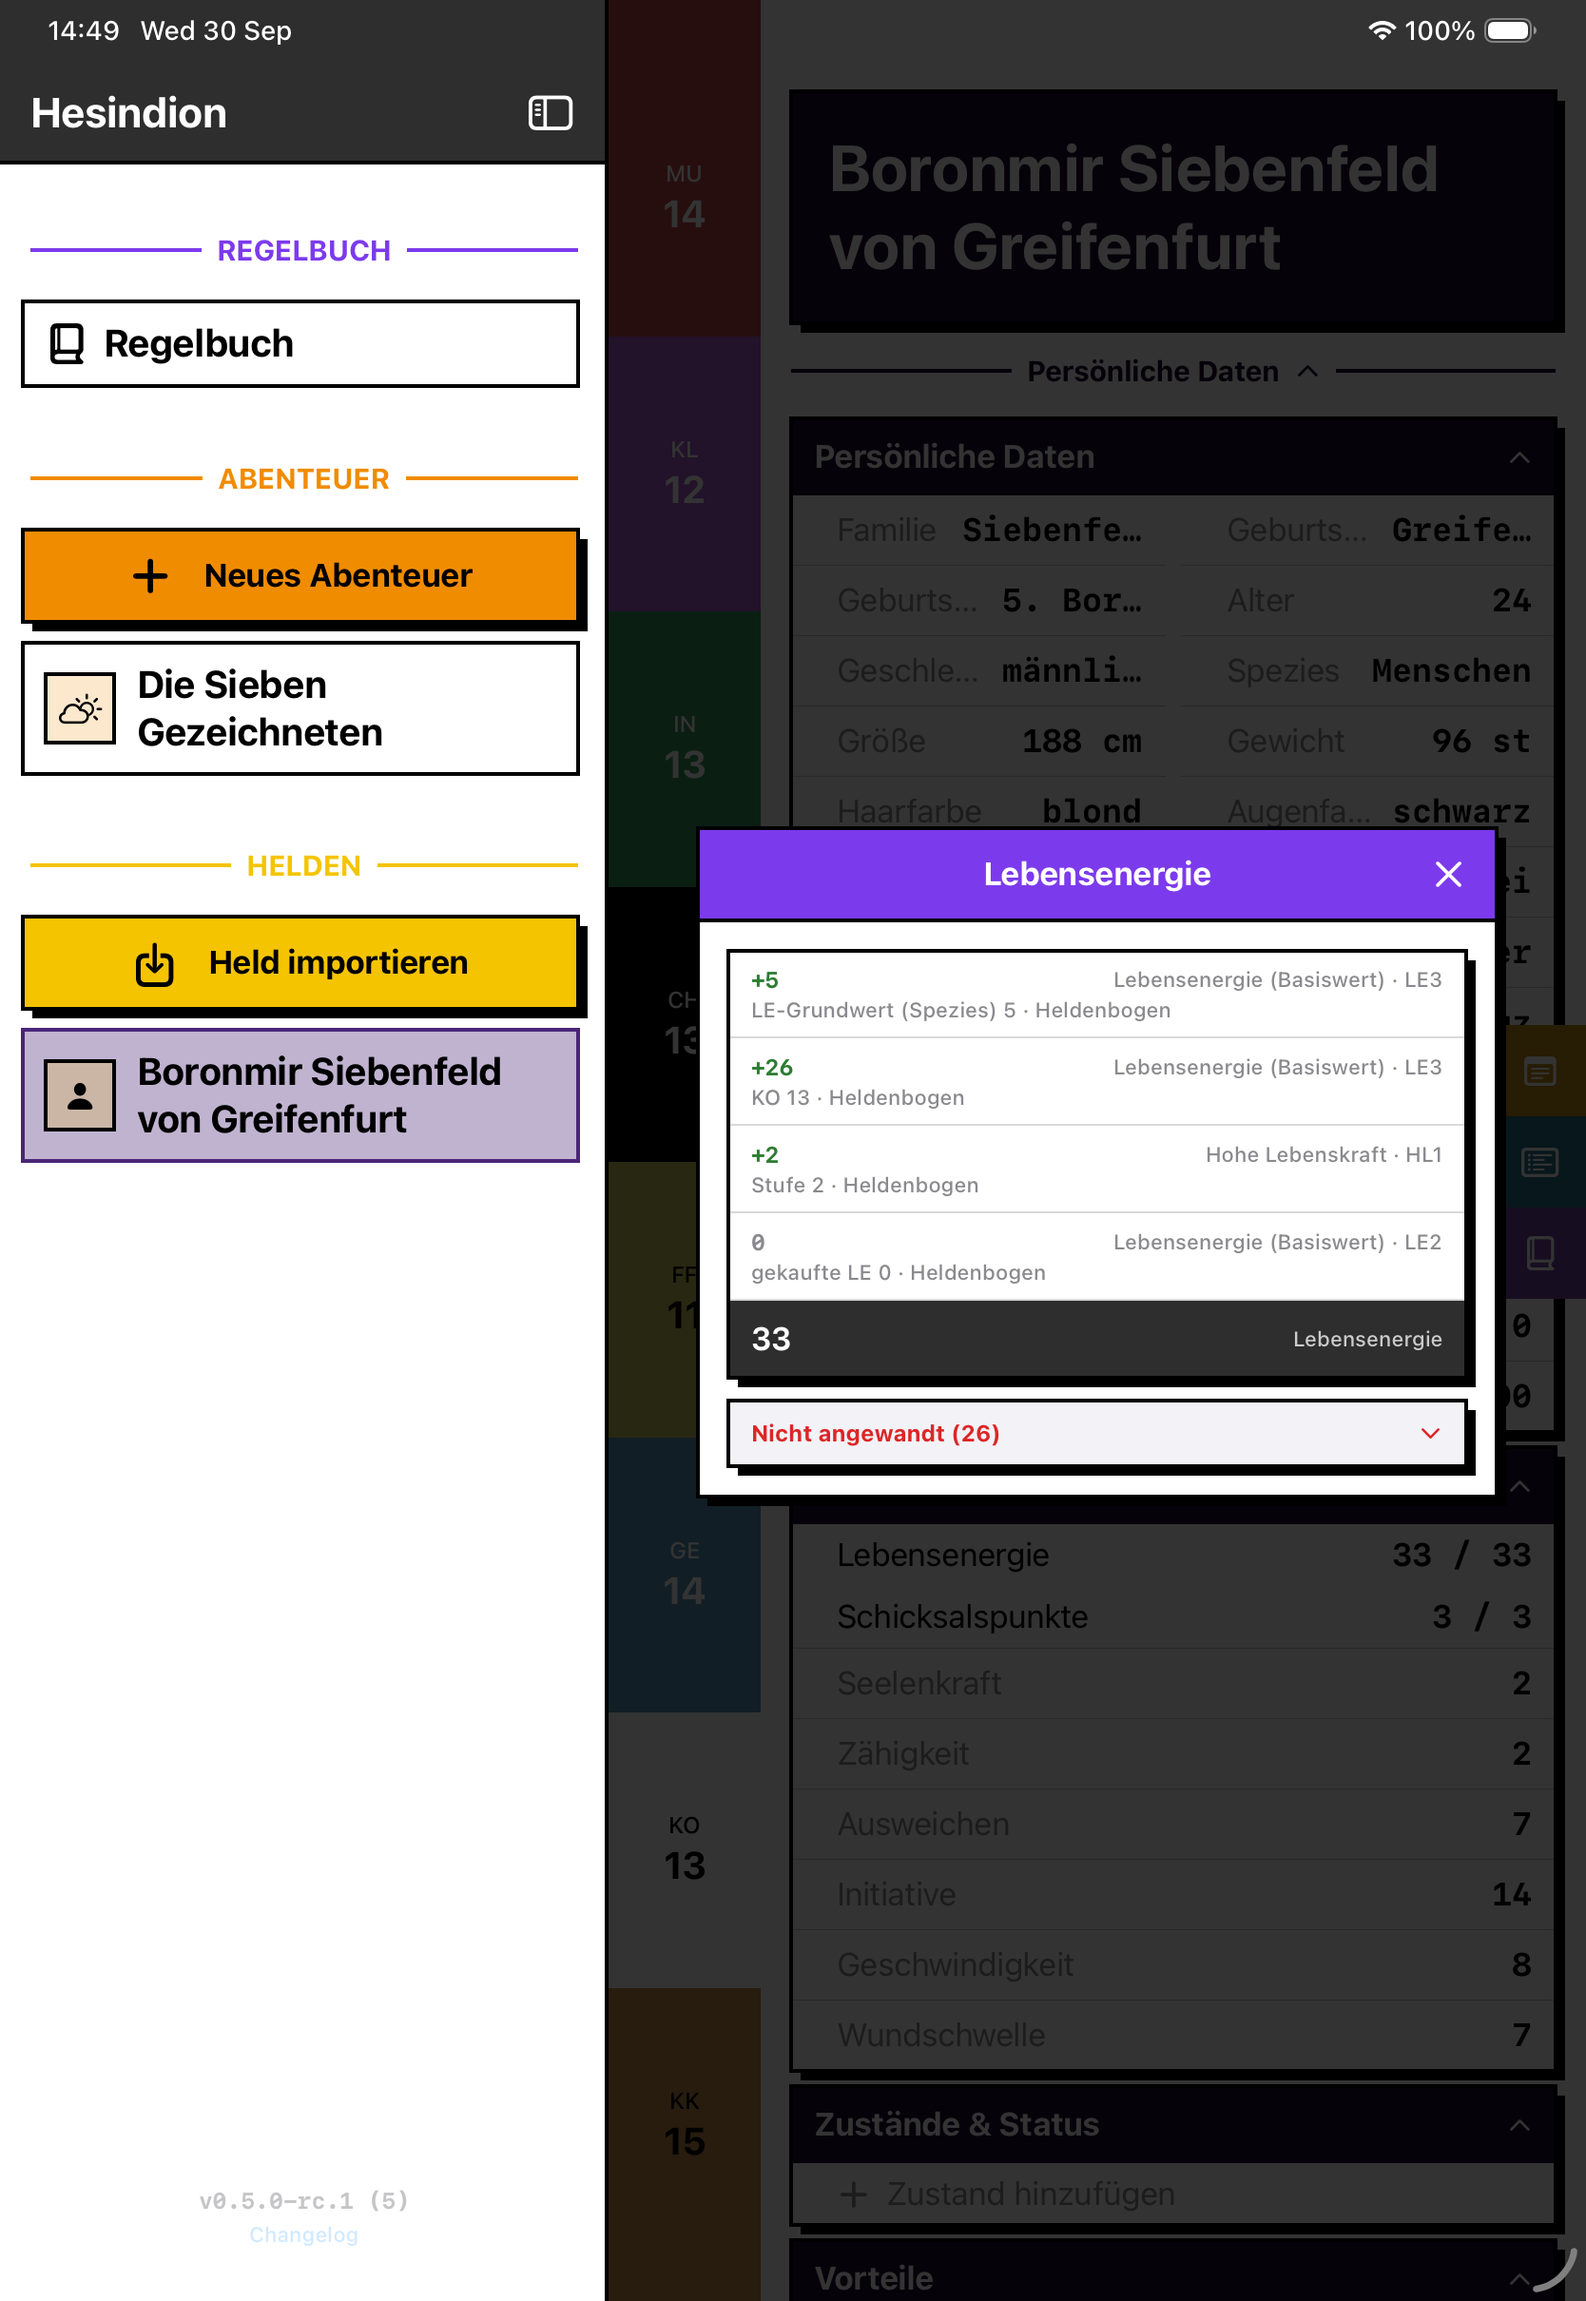
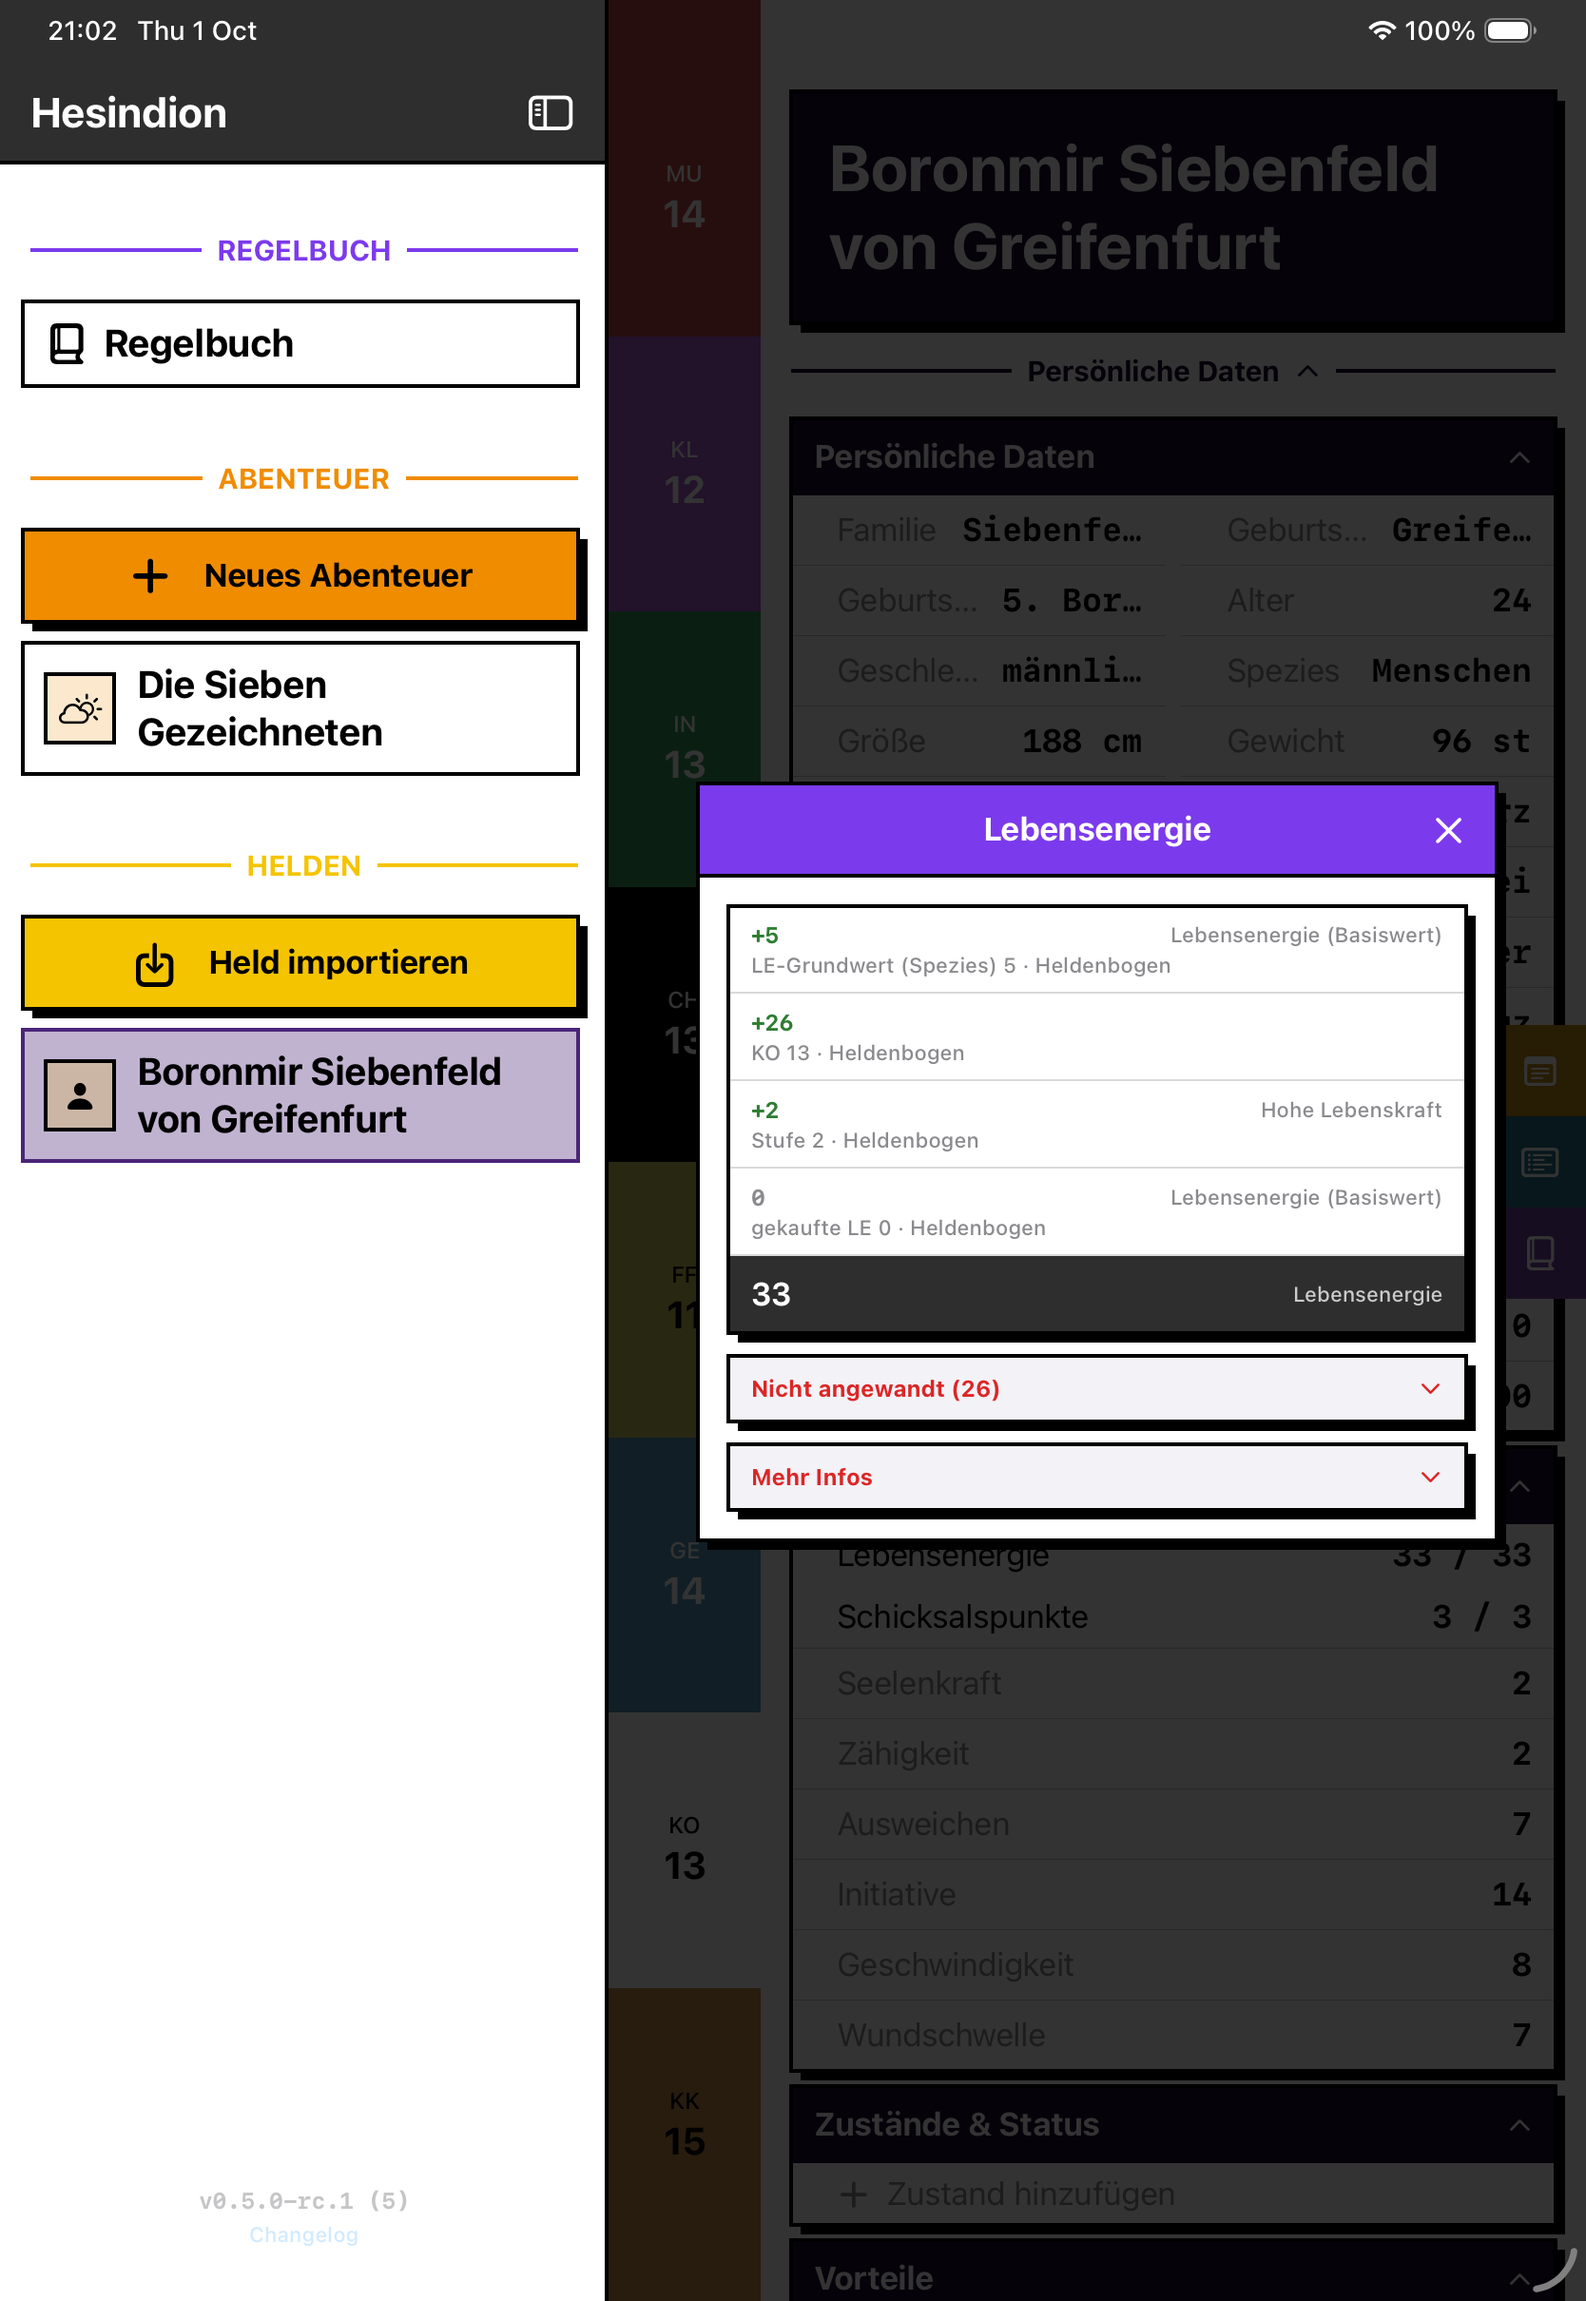
ui: a breakdown row names its rule once; clause and ruling ids under Mehr Infos (#51)
Claude-Session: https://claude.ai/code/session_01XqN782arHHEks4nWYuMR9X

Changed region(s): [[0.4365, 0.3409, 0.9664, 0.6818], [0.0935, 0.0, 0.1871, 0.031], [0.0312, 0.0, 0.0624, 0.031]]

diff --git a/Hesindion/Views/BreakdownText.swift b/Hesindion/Views/BreakdownText.swift
@@ -9,10 +9,13 @@ enum BreakdownText {
     /// Facts a line reads only to gate a rule (`subject: creature`), which say nothing to a player.
     private static let hiddenFacts: Set<String> = ["subject"]
 
-    /// One detail per shown line, in `shownLines` order (nil: the row has none).
+    /// One detail per shown line, in `shownLines` order (nil: the row has none). A fact or an
+    /// Auslegung mark the line above already showed is not repeated.
     static func details(for breakdown: Breakdown, book: RuleBook, openRuling: String?) -> [String?] {
         let isLevel = breakdown.query.name == "level"
         var step = 0
+        var shownFacts: [FactUse] = []
+        var shownRuling: String?
         return breakdown.shownLines.map { line in
             var parts: [String] = []
             if let threshold = line.threshold {
@@ -25,17 +28,48 @@ enum BreakdownText {
             if line.kind == .levelAs, let was = line.was, let now = line.now {
                 parts.append(String(format: L("breakdown.levelAs"), stufe(was), stufe(now)))
             } else {
-                parts += facts(of: line).map { fact in
+                let new = facts(of: line).filter { !shownFacts.contains($0) }
+                shownFacts = facts(of: line)
+                parts += new.map { fact in
                     let label = "\(FactLabel.label(fact.name, book: book)) \(display(fact.value))"
                     return fact.owner == .derived ? label : "\(label) · \(L("owner.\(fact.owner.rawValue)"))"
                 }
             }
-            if let ruling = line.ruling {
+            defer { shownRuling = line.ruling }
+            if let ruling = line.ruling, ruling != shownRuling {
                 let answer = openRuling == ruling ? (book.rulingAnswer(ruling) ?? ruling) : nil
                 parts.append(answer.map { String(format: L("breakdown.auslegung.open"), $0) } ?? L("breakdown.auslegung"))
             }
             return parts.isEmpty ? nil : parts.joined(separator: " · ")
         }
+    }
+
+    /// One source per shown line: the rule's name (or, for a value no rule gave, who stated it),
+    /// "" when the line above has the same one. The clause ids are in `references`.
+    static func sources(for breakdown: Breakdown, book: RuleBook) -> [String] {
+        var previous: String?
+        return breakdown.shownLines.map { line in
+            let name = line.origin.map { ruleName($0.rule, book) } ?? L("owner.\((line.owner ?? .sheet).rawValue)")
+            defer { previous = name }
+            return name == previous ? "" : name
+        }
+    }
+
+    /// "Mehr Infos": every clause the lines come from and rest on (`Rule · clause`), then every
+    /// ruling they rest on, each once, in line order (design §5: each line's origin stays shown).
+    static func references(for breakdown: Breakdown, book: RuleBook) -> [String] {
+        var clauses: [String] = [], rulings: [String] = []
+        for line in breakdown.shownLines {
+            for ref in (line.origin.map { [$0] } ?? []) + line.via {
+                let text = "\(ruleName(ref.rule, book)) · \(ref.clause)"
+                if !clauses.contains(text) { clauses.append(text) }
+            }
+            for id in line.rulings {
+                let text = String(format: L("breakdown.reference.ruling"), id)
+                if !rulings.contains(text) { rulings.append(text) }
+            }
+        }
+        return clauses + rulings
     }
 
     /// The result bar's value: for `level(rule:)` the Stufe acted at, and the Stufe had when a
@@ -48,6 +82,8 @@ enum BreakdownText {
         }
         return String(format: L("breakdown.level.total"), stufe(result))
     }
+
+    private static func ruleName(_ id: String, _ book: RuleBook) -> String { book.rules[id]?.name ?? id }
 
     private static func facts(of line: Line) -> [FactUse] {
         line.facts.filter { !hiddenFacts.contains($0.name) }

diff --git a/Hesindion/Views/BreakdownSheet.swift b/Hesindion/Views/BreakdownSheet.swift
@@ -21,6 +21,8 @@ struct BreakdownSheet: View {
     /// survives `DSAModal` remounting it under a different parent once the content grows past
     /// the scroll cap (see `CombatDisclosureSection.expandedOverride`).
     @State private var notAppliedExpanded = false
+    /// The "Mehr Infos" fold's state, held here for the same reason.
+    @State private var moreInfoExpanded = false
 
     var body: some View {
         DSAModal(
@@ -44,16 +46,19 @@ struct BreakdownSheet: View {
                 totalIdentifier: "breakdown.result"
             )
             notAppliedSection
+            moreInfoSection
         }
     }
 
     /// One `BreakdownRow` per shown line, in order: the value signed (the base parts too), the
-    /// source `Rule name · clause`, and as the row's `detail` what `BreakdownText` says of it — a
-    /// threshold, the facts it read, its Auslegung mark (tappable to expand the ruling's answer).
+    /// rule's name once per run of its lines, and as the row's `detail` what `BreakdownText` says
+    /// of it — a threshold, the facts it read, its Auslegung mark (tappable to expand the ruling's
+    /// answer). Clause and ruling ids are under "Mehr Infos".
     private var rows: [BreakdownRow] {
         let details = BreakdownText.details(for: value.breakdown, book: book, openRuling: openRuling)
+        let sources = BreakdownText.sources(for: value.breakdown, book: book)
         return value.breakdown.shownLines.enumerated().map { i, line in
-            var row = BreakdownRow.signed(line.value, origin(line))
+            var row = BreakdownRow.signed(line.value, sources[i])
             row.detail = details[i]
             row.identifierOverride = "breakdown.line.\(i)"
             if let ruling = line.ruling {
@@ -63,15 +68,32 @@ struct BreakdownSheet: View {
         }
     }
 
-    /// A line's origin, its clause id, and the rules it rests `via` (a useLevel, a replace); a
-    /// value the sheet or the player stated instead names its `owner` (design §5).
-    private func origin(_ line: Line) -> String {
-        guard let o = line.origin else { return L("owner.\((line.owner ?? .sheet).rawValue)") }
-        let via = line.via.map { ruleName($0.rule) }
-        return "\(ruleName(o.rule)) · \(o.clause)" + (via.isEmpty ? "" : " (\(via.joined(separator: ", ")))")
-    }
-
     private func ruleName(_ id: String) -> String { book.rules[id]?.name ?? id }
+
+    /// The folded "Mehr Infos" list: the clause and ruling ids the lines rest on (issue #51), kept
+    /// out of the rows so that a row does not repeat them.
+    @ViewBuilder
+    private var moreInfoSection: some View {
+        let references = BreakdownText.references(for: value.breakdown, book: book)
+        if !references.isEmpty {
+            CombatDisclosureSection(
+                title: L("breakdown.moreInfo"),
+                identifier: "breakdown.moreInfo",
+                expandedOverride: $moreInfoExpanded
+            ) {
+                VStack(spacing: 0) {
+                    ForEach(references, id: \.self) { reference in
+                        Text(reference)
+                            .font(.dsaBody(.caption))
+                            .frame(maxWidth: .infinity, alignment: .leading)
+                            .padding(.horizontal, 12)
+                            .padding(.vertical, 8)
+                            .dsaRowDivider()
+                    }
+                }
+            }
+        }
+    }
 
     /// The folded "Nicht angewandt (n)" list, in the app's own disclosure styling (shut by
     /// default, like the announcement's opponent section) rather than a system `DisclosureGroup`.

diff --git a/HesindionUITests/SheetBreakdownTests.swift b/HesindionUITests/SheetBreakdownTests.swift
@@ -63,13 +63,16 @@ final class SheetBreakdownTests: XCTestCase {
         let panel = app.otherElements["modal.panel"]
         XCTAssertTrue(panel.waitForExistence(timeout: UITest.timeout), "The modal panel has no identifier")
 
-        // Hug: the collapsed fold is the content's last row; below it only the content's
-        // own 16pt padding (and the box's border) may remain, not the rest of the cap.
-        let gap = panel.frame.maxY - toggle.frame.maxY
+        // Hug: the collapsed "Mehr Infos" fold, under "Nicht angewandt", is the content's last
+        // row; below it only the content's own 16pt padding (and the box's border) may remain,
+        // not the rest of the cap.
+        let last = app.buttons["breakdown.moreInfo.toggle"]
+        XCTAssertTrue(last.exists, "The Mehr-Infos fold is missing")
+        let gap = panel.frame.maxY - last.frame.maxY
         XCTAssertLessThanOrEqual(
             gap, 40,
             "The panel does not hug its content: its bottom is \(gap)pt below the last row "
-                + "(panel \(panel.frame), fold \(toggle.frame))"
+                + "(panel \(panel.frame), fold \(last.frame))"
         )
 
         toggle.tap()
@@ -161,6 +164,7 @@ final class SheetBreakdownTests: XCTestCase {
         XCTAssertTrue(app.staticTexts["Schmerz Kupperus"].exists, "The breakdown is not the mount's Schmerz")
         XCTAssertTrue(app.staticTexts["breakdown.intro"].exists, "Nothing says how the thresholds count")
         XCTAssertEqual(app.staticTexts["breakdown.result"].label, "Stufe II", "The result is not the Stufe")
+        XCTAssertTrue(app.buttons["breakdown.moreInfo.toggle"].exists, "The clause ids have no Mehr-Infos fold")
         XCTAssertTrue(
             app.descendants(matching: .any)["breakdown.line.0"].exists,
             "The breakdown has no lines"

diff --git a/HesindionTests/BreakdownTextTests.swift b/HesindionTests/BreakdownTextTests.swift
@@ -51,6 +51,33 @@ final class BreakdownTextTests: XCTestCase {
         XCTAssertFalse(first.contains(L("owner.derived")), first)
     }
 
+    /// Only the first threshold shows the LeP read and the Auslegung mark; the rows below
+    /// repeat neither.
+    func testALineRepeatsNoFactAndNoMarkOfTheLineAbove() throws {
+        let d = details(try schmerz(le: 60))
+        for line in d[1...3] {
+            XCTAssertFalse(line!.contains("LeP 60"), line!)
+            XCTAssertFalse(line!.contains(L("breakdown.auslegung")), line!)
+        }
+    }
+
+    /// The rule name shows once per run of lines from the same rule, without the clause id.
+    func testTheSourceIsTheRuleNameOncePerRun() throws {
+        let sources = BreakdownText.sources(for: try schmerz(le: 60), book: book)
+        let breed = book.rules["svellttaler-kaltblut"]!.name, tough = book.rules["zaehes-tier"]!.name
+        XCTAssertEqual(sources, [breed, "", "", "", tough])
+    }
+
+    /// "Mehr Infos": each clause, rule and ruling id once.
+    func testTheReferencesListEachClauseAndRulingOnce() throws {
+        let refs = BreakdownText.references(for: try schmerz(le: 60), book: book)
+        let breed = book.rules["svellttaler-kaltblut"]!.name
+        XCTAssertEqual(refs.filter { $0 == "\(breed) · SK10" }.count, 1, "\(refs)")
+        XCTAssertEqual(refs.filter { $0.contains("svellttaler-kaltblut.svellttaler-schmerz-thresholds") }.count, 1,
+                       "\(refs)")
+        XCTAssertEqual(Set(refs).count, refs.count, "\(refs)")
+    }
+
     func testTheRulingMarkHidesItsIdUntilOpened() throws {
         let b = try schmerz(le: 60)
         let shut = try XCTUnwrap(details(b)[0])

diff --git a/Hesindion/Theme/Strings.swift b/Hesindion/Theme/Strings.swift
@@ -868,6 +868,8 @@ enum DSAStrings {
         "breakdown.notApplied":         "Not applied (%d)",
         "breakdown.auslegung":          "Ruling ▸",
         "breakdown.auslegung.open":     "Ruling: %@",
+        "breakdown.moreInfo":           "More info",
+        "breakdown.reference.ruling":   "Ruling %@",
         "breakdown.step":               "Threshold %@: %@ ≤ %d – %@",
         "breakdown.step.value":         "value",
         "breakdown.step.reached":       "reached",
@@ -1957,6 +1959,8 @@ enum DSAStrings {
         "breakdown.notApplied":         "Nicht angewandt (%d)",
         "breakdown.auslegung":          "Auslegung ▸",
         "breakdown.auslegung.open":     "Auslegung: %@",
+        "breakdown.moreInfo":           "Mehr Infos",
+        "breakdown.reference.ruling":   "Auslegung %@",
         "breakdown.step":               "Schwelle %@: %@ ≤ %d – %@",
         "breakdown.step.value":         "Wert",
         "breakdown.step.reached":       "erreicht",
